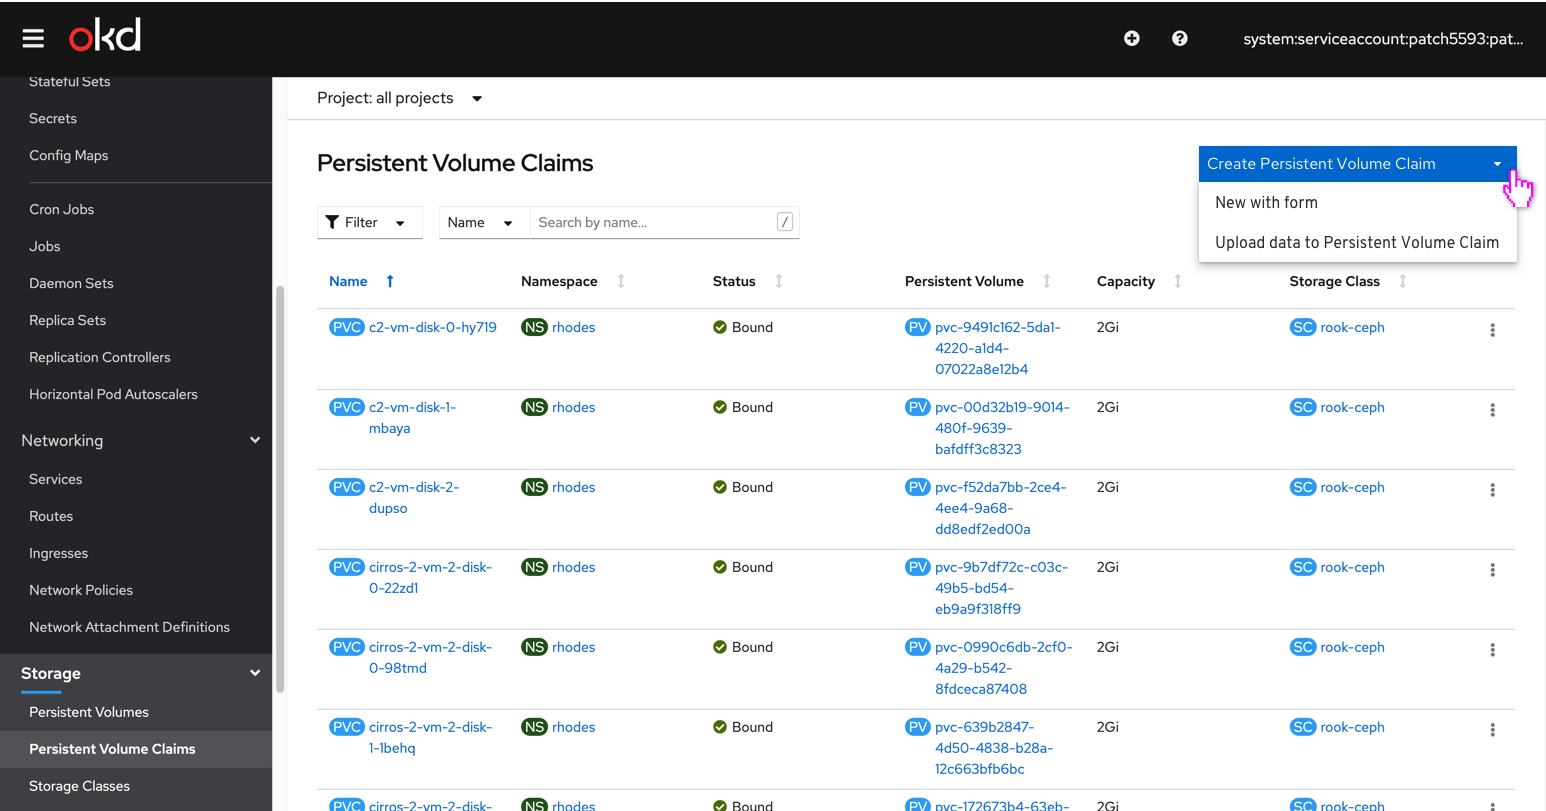
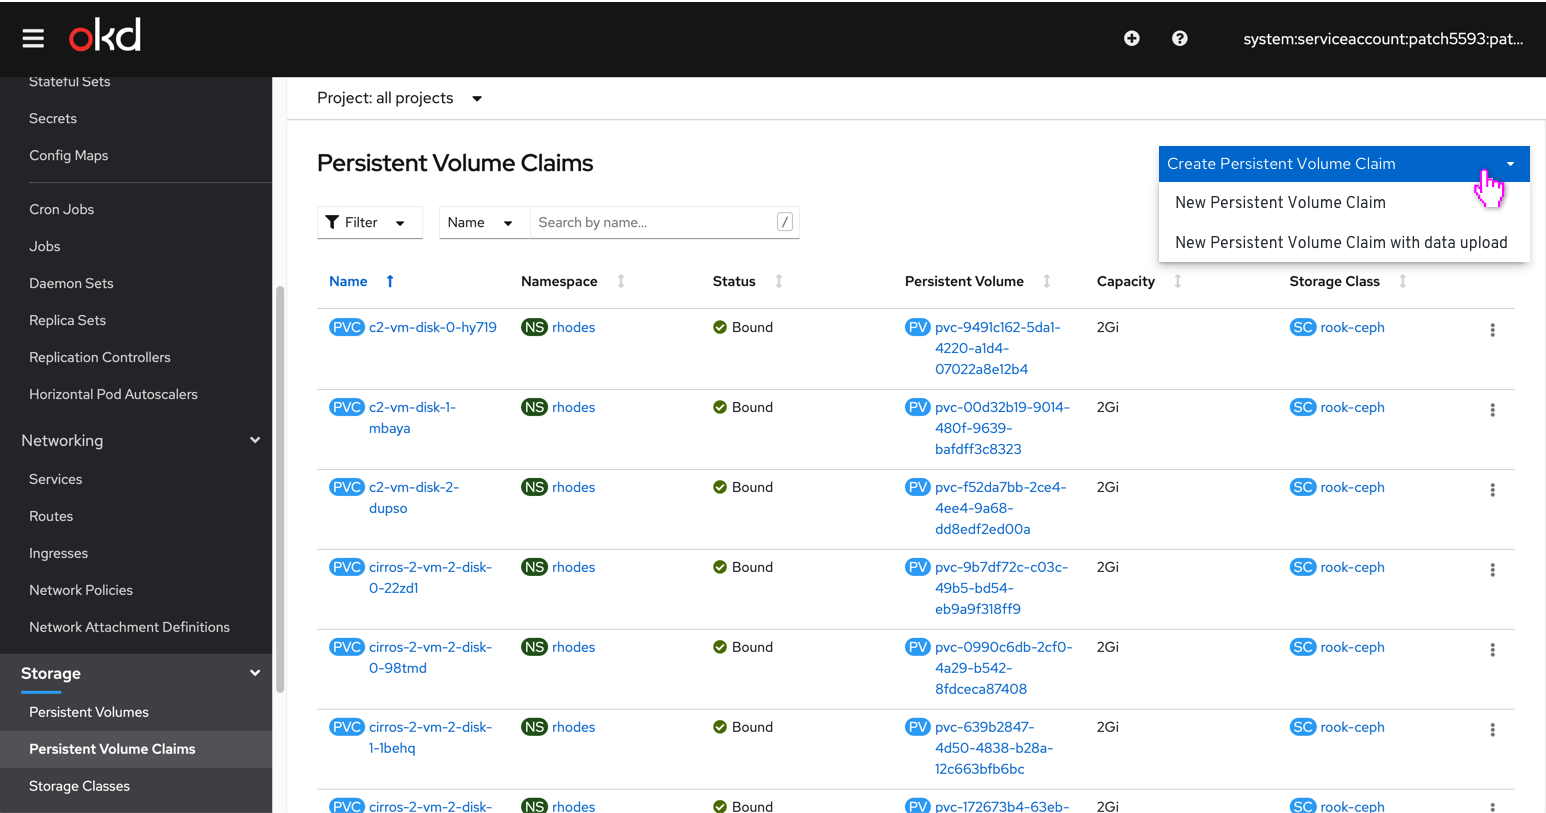
wording in dropdown

diff --git a/designs/virtualization/4.6/Upload-image-prior-to-creating-VM/Upload Image prior to creating vm.md b/designs/virtualization/4.6/Upload-image-prior-to-creating-VM/Upload Image prior to creating vm.md
@@ -8,8 +8,7 @@ This PR deals with when a user wants to upload an image (data source) prior to c
 It needs to be accomplished via the storage/PVC area.
 It should ensure the user understands what the backing PVC does but does not remove the Disk terminology.
 
-The ‘Create PVC’ button will change into a dropdown, so users will be able to select ‘Upload data to Persistent Volume Claim’ from this dropdown.
-That will make 2 separate actions for creation, one of them being able to 'Upload data to Persistent Volume Claim'.
+The ‘Create PVC’ button will change into a dropdown, so users will be able to select between 'New Persistent Volume Claim' or ‘New Persistent Volume Claim with data upload’ from this dropdown.
 By creating a dropdown and adding this new action, we'll highlight this action as a new feature (in an existing form) so the users will be able to easily find it.
 
 ![PVC list with drop down button](img/PVC-dropdown.png)
